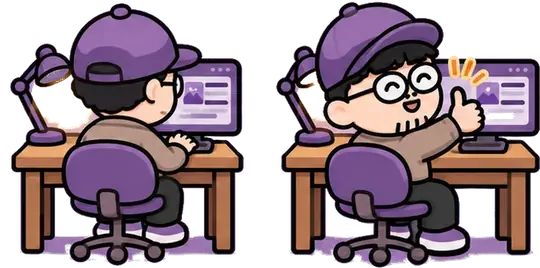
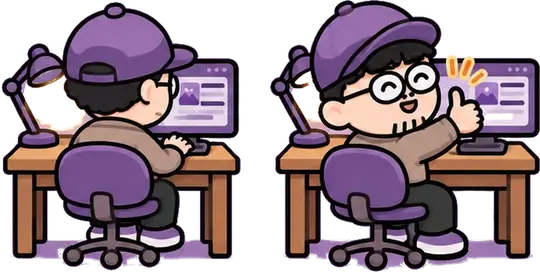
Room: replace the typing loop with the new 12 laptop frames; keep hover animation
Claude-Session: https://claude.ai/code/session_01Bhe3PGmnQ2ASdoZrWdnT6w

diff --git a/room/index.html b/room/index.html
@@ -60,9 +60,9 @@ html.dark .lab{border-color:#c9b8ff}
 @media(max-aspect-ratio:1/1){.rug{left:var(--px);top:var(--py);width:var(--pw);height:var(--ph)}}
 .rug:after{content:"";position:absolute;inset:14px;border-radius:50%;border:2px solid var(--rugline);opacity:.7}
 .coder-unused{}
-#coder{width:270px;height:268.5px;pointer-events:none;--lx:20;--ly:29.4;--lw:11;--lh:5.2;--sx:75;--sy:36;--sw:26;--sh:20}
+#coder{width:270px;height:272px;pointer-events:none;--lx:20;--ly:29.4;--lw:11;--lh:5.2;--sx:75;--sy:36;--sw:26;--sh:20}
 #coder .spr,#coder .la,#coder .lb,#coder .ha,#coder .hb{position:absolute;inset:0}
-#coder .la,#coder .lb{background:url(../assets/coder.webp) 0 0/800% 400% no-repeat}
+#coder .la,#coder .lb{background:url(../assets/coder.webp) 0 0/400% 300% no-repeat}
 #coder .ha,#coder .hb{background:0 0/200% 100% no-repeat}
 #coder .lb,#coder .ha,#coder .hb{opacity:0}
 #coder .hit{position:absolute;left:6%;top:6%;width:90%;height:90%;pointer-events:auto;cursor:pointer}
@@ -368,15 +368,15 @@ $('#win').addEventListener('click', flipTheme);
 paintTheme();
 
 // wall clock shows the real time
-// the guy at the laptop: 29 frames blended one into the next, looping without a pause. the lamp and the monitor glow come on with night mode (css).
+// the guy at the laptop: 12 frames blended one into the next, looping without a pause. the lamp and the monitor glow come on with night mode (css).
 // hover him (or tap him on a phone) and he turns round and gives a thumbs-up, and stays that way while the cursor stays on him.
 (() => {
   const box = $('#coder'); if (!box) return;
   const la = box.querySelector('.la'), lb = box.querySelector('.lb'), ha = box.querySelector('.ha'), hb = box.querySelector('.hb'), hit = box.querySelector('.hit');
-  const LAMP = [[22.02, 32.47, 10.09, 4.98], [22.13, 32.35, 9.89, 4.75], [22.02, 32.35, 10.11, 4.75], [22.02, 32.35, 10.11, 4.75], [21.91, 32.35, 9.89, 4.75], [21.91, 32.35, 9.89, 4.75], [21.69, 32.35, 9.91, 4.75], [22.02, 32.58, 10.11, 4.75], [22.02, 32.58, 10.11, 4.75], [21.8, 32.58, 10.11, 4.75], [21.91, 32.58, 9.89, 4.75], [21.91, 32.58, 9.89, 4.75], [21.8, 32.58, 10.11, 4.75], [21.69, 32.58, 9.89, 4.75], [19.75, 29.86, 9.64, 5.2], [19.33, 29.86, 9.64, 5.2], [19.55, 29.86, 9.66, 5.2], [19.53, 29.64, 9.6, 5.2], [18.16, 31.33, 9.3, 4.98], [19.21, 31.67, 9.44, 4.75], [18.76, 31.9, 9.44, 4.75], [21.24, 27.83, 10.34, 5.2], [21.2, 27.83, 10.2, 5.2], [21.2, 27.83, 10.2, 5.2], [21.12, 27.83, 10.11, 5.2], [21.2, 27.83, 10.2, 5.2], [21.2, 27.83, 10.2, 5.2], [21.2, 27.83, 10.2, 5.2], [19.44, 28.6, 8.54, 5.05], [20.09, 28.17, 9.82, 4.98], [21.91, 32.35, 9.89, 4.98]];
-  const SCREEN = [[72.77, 40.05, 23.51, 15.61], [73.04, 38.69, 23.61, 18.33], [72.92, 38.8, 23.82, 18.55], [72.92, 38.8, 23.82, 18.1], [72.81, 38.57, 23.6, 18.1], [72.58, 38.57, 24.04, 18.55], [72.47, 38.46, 24.27, 18.33], [73.15, 38.8, 24.72, 19.0], [73.15, 38.8, 24.27, 19.0], [72.92, 38.8, 24.27, 19.0], [73.37, 38.91, 25.17, 18.78], [73.37, 38.8, 24.72, 19.0], [73.03, 38.8, 25.39, 19.0], [73.93, 38.8, 27.19, 19.0], [71.91, 36.99, 28.99, 21.27], [71.69, 36.99, 28.54, 21.27], [71.46, 36.99, 28.99, 21.27], [71.57, 36.76, 29.21, 21.27], [70.79, 38.35, 30.34, 20.36], [71.35, 38.24, 30.11, 20.14], [76.18, 38.24, 31.24, 20.14], [76.29, 37.22, 25.62, 18.1], [73.82, 37.22, 23.37, 18.1], [72.36, 37.22, 23.6, 18.1], [72.7, 37.22, 25.17, 18.1], [73.93, 37.22, 23.15, 18.1], [72.81, 37.56, 26.29, 17.87], [68.31, 37.56, 21.8, 17.42], [74.49, 37.44, 22.02, 17.65], [74.16, 37.44, 22.25, 17.65], [79.55, 37.56, 32.13, 17.87]];
-  const N = 29, HF1 = 29, HF2 = 30, STEP = 520, HSTEP = 120, LOOP = N * STEP;
-  const pos = (n) => ((n % 8) * 100 / 7) + '% ' + (Math.floor(n / 8) * 100 / 3) + '%';
+  const LAMP = [[21.08, 33.26, 12.05, 5.69], [20.92, 33.37, 11.95, 5.47], [20.69, 33.14, 12.18, 5.92], [20.69, 33.37, 12.18, 5.47], [21.03, 32.92, 11.95, 5.92], [20.9, 32.92, 11.77, 5.92], [20.6, 33.14, 12.02, 5.92], [20.69, 32.92, 12.18, 5.92], [21.03, 32.92, 11.95, 5.92], [21.01, 33.03, 11.98, 5.69], [20.57, 33.03, 11.95, 5.69], [20.57, 33.14, 11.95, 5.92], [17.33, 27.9, 10.05, 5.01], [20.79, 33.09, 11.95, 5.92]];
+  const SCREEN = [[67.01, 44.42, 23.45, 17.08], [67.1, 44.4, 23.4, 17.3], [67.36, 44.19, 24.14, 17.08], [67.13, 44.53, 23.22, 17.31], [67.13, 44.31, 23.22, 17.31], [67.36, 44.31, 23.22, 17.31], [67.01, 44.53, 23.91, 17.31], [67.04, 44.31, 23.4, 17.31], [67.01, 44.31, 23.45, 17.31], [67.1, 44.4, 23.4, 17.3], [67.13, 44.31, 23.68, 17.31], [67.01, 44.53, 23.45, 17.31], [72.64, 37.24, 22.76, 17.77], [67.13, 44.31, 23.45, 17.31]];
+  const N = 12, HF1 = 12, HF2 = 13, STEP = 520, HSTEP = 120, LOOP = N * STEP;
+  const pos = (n) => ((n % 4) * 100 / 3) + '% ' + (Math.floor(n / 4) * 50) + '%';
   la.style.backgroundPosition = pos(0);
   // the two hover frames are a separate, tiny image, fetched a moment after the page is up
   const loadHover = () => { const u = '../assets/coder-hover.webp'; const im = new Image(); im.onload = () => { ha.style.backgroundImage = hb.style.backgroundImage = 'url(' + u + ')'; }; im.src = u; };
@@ -608,7 +608,6 @@ tuneBtn.addEventListener('click', async () => {
 stopBtn.addEventListener('click', stopTune);
 
 try { localStorage.setItem('room-seen', '1'); } catch (e) {}
-// coming back through the back button must ask again too
 addEventListener('pageshow', (e) => { if (e.persisted) { root.classList.add('locked'); setTimeout(() => gateIn.focus(), 50); } });
 
 // password gate. a light lock for a cozy page, not real security.
